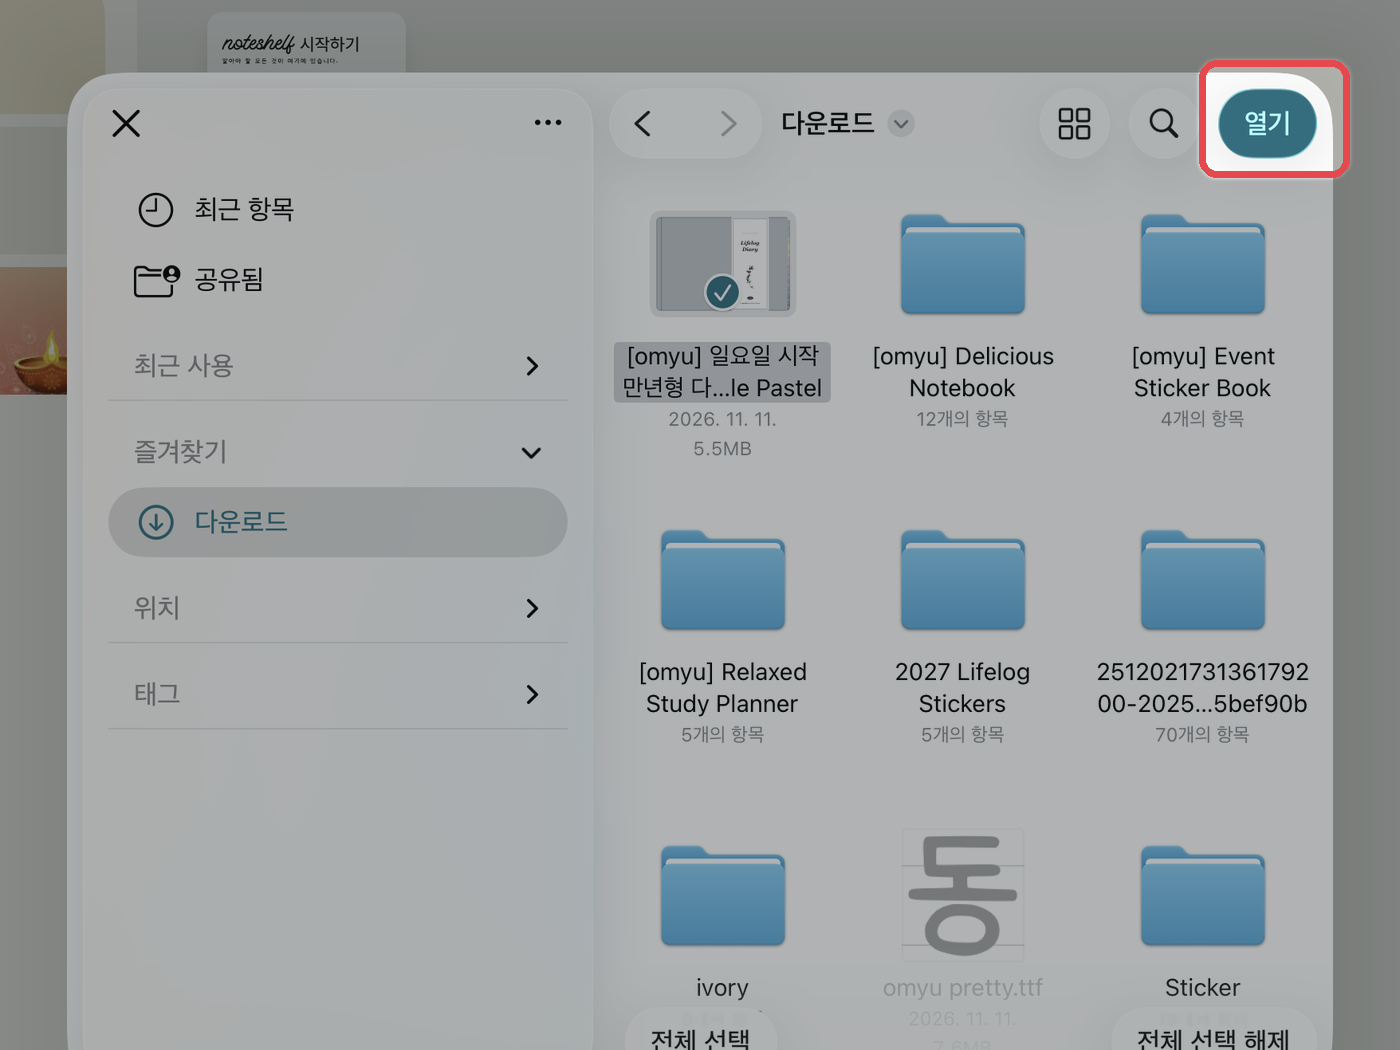
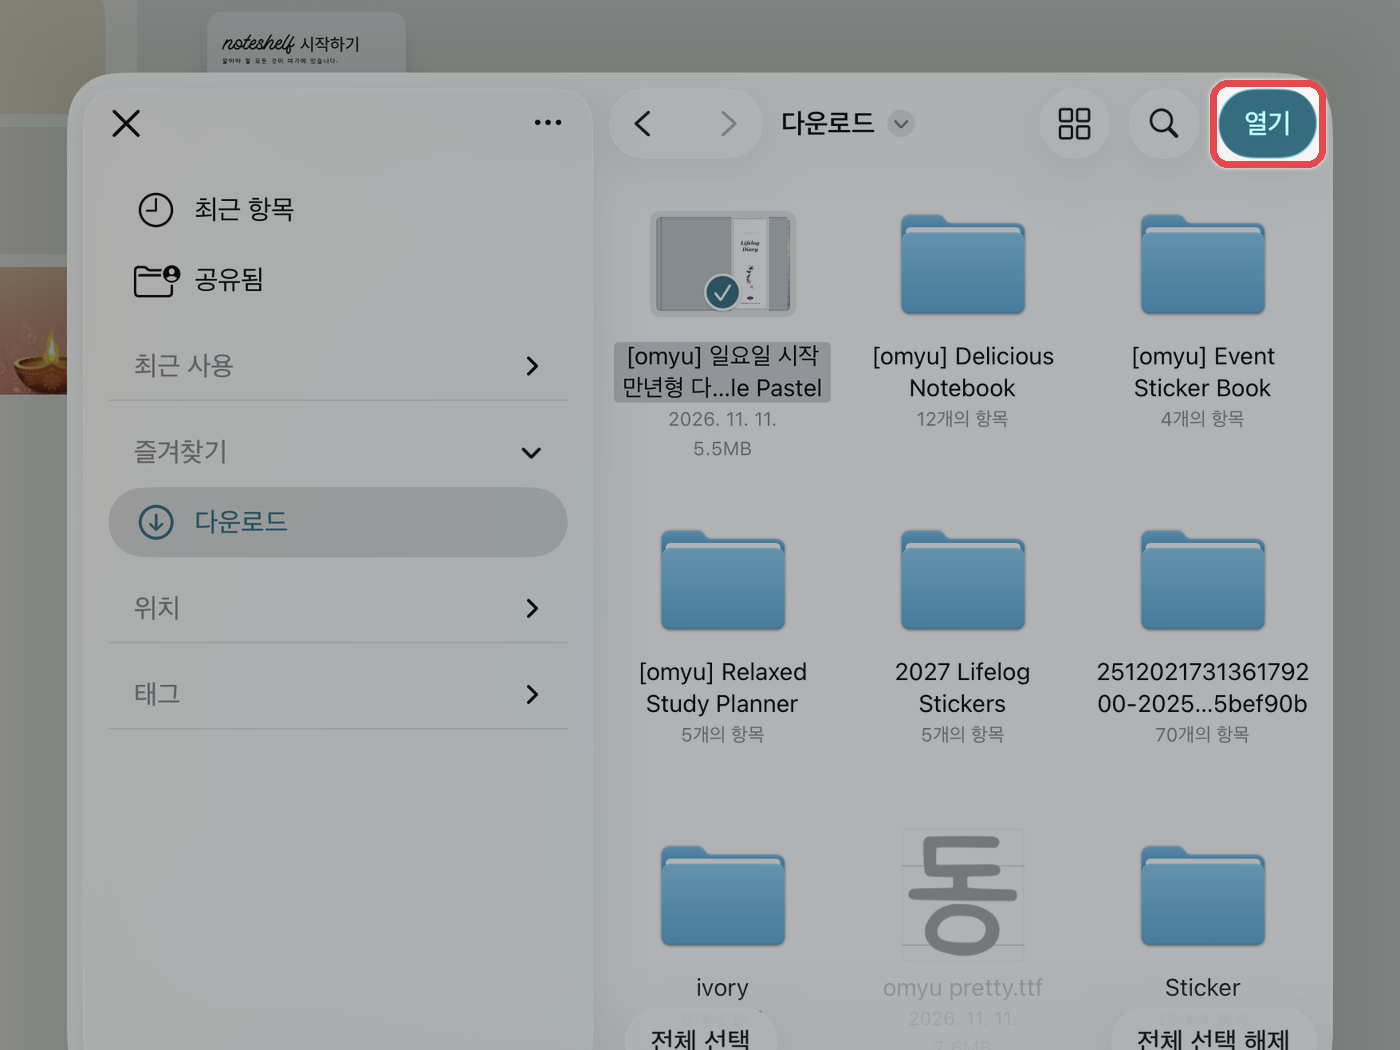
노트쉘프: 하이퍼링크 GIF 전체 화면, 표지 [파일 가져오기]로 변경, 열기 버튼 표시 보정
Claude-Session: https://claude.ai/code/session_01XDpXuyQHQD34dHb3Zoswsg

Changed region(s): [[0.8293, 0.0305, 0.9829, 0.1829]]

diff --git a/noteshelf/cover.md b/noteshelf/cover.md
@@ -17,9 +17,9 @@ icon: image
 {% step %}
 #### 표지 이미지 추가
 
-표지를 바꿀 노트에서 오른쪽 위 **\[+]** → **\[이미지에서 가져온 페이지]**&#xB97C; 누르고, 저장해 둔 표지 이미지를 선택해 주세요.
+표지를 바꿀 노트에서 오른쪽 위 **\[+]** → **\[파일 가져오기]**&#xB97C; 누르고, 저장해 둔 표지 이미지를 선택해 주세요.
 
-<figure><img src="../.gitbook/assets/shot-noteshelf-cover-01.png" alt="+ 버튼 → 이미지에서 가져온 페이지"><figcaption></figcaption></figure>
+<figure><img src="../.gitbook/assets/shot-noteshelf-cover-01.png" alt="+ 버튼 → 파일 가져오기"><figcaption></figcaption></figure>
 {% endstep %}
 
 {% step %}
